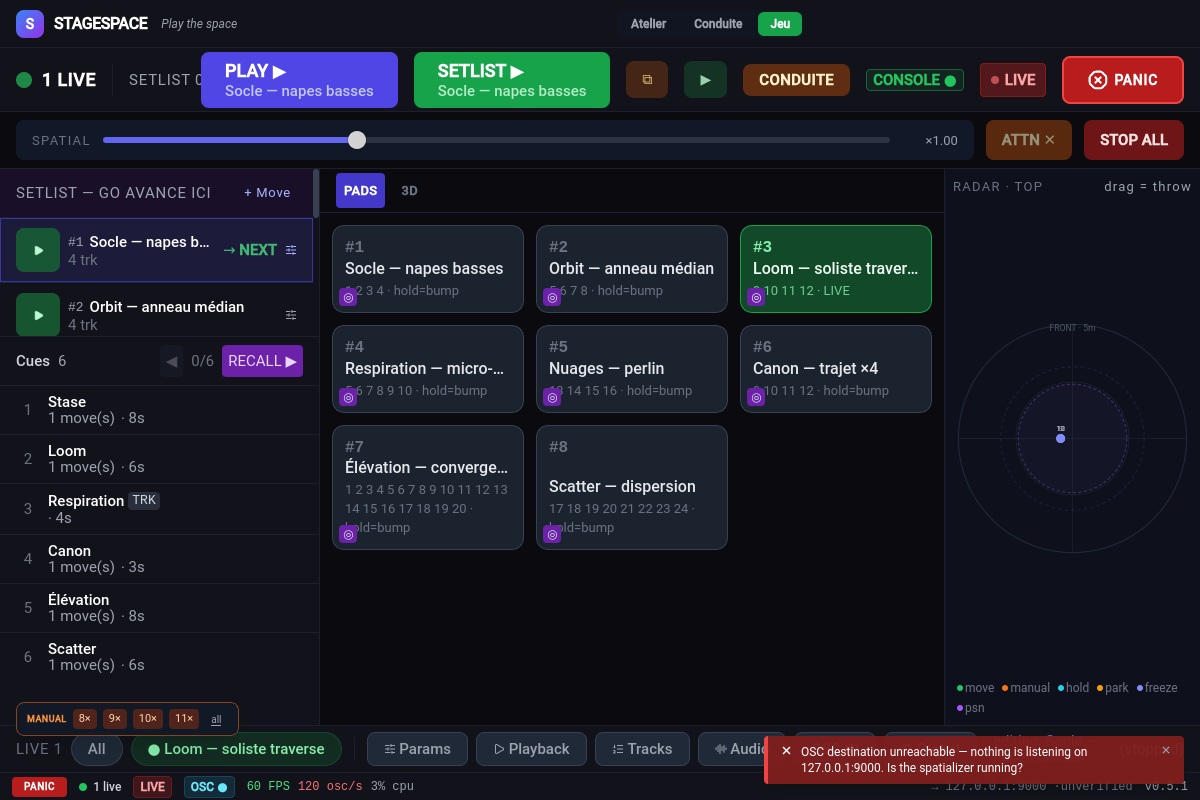
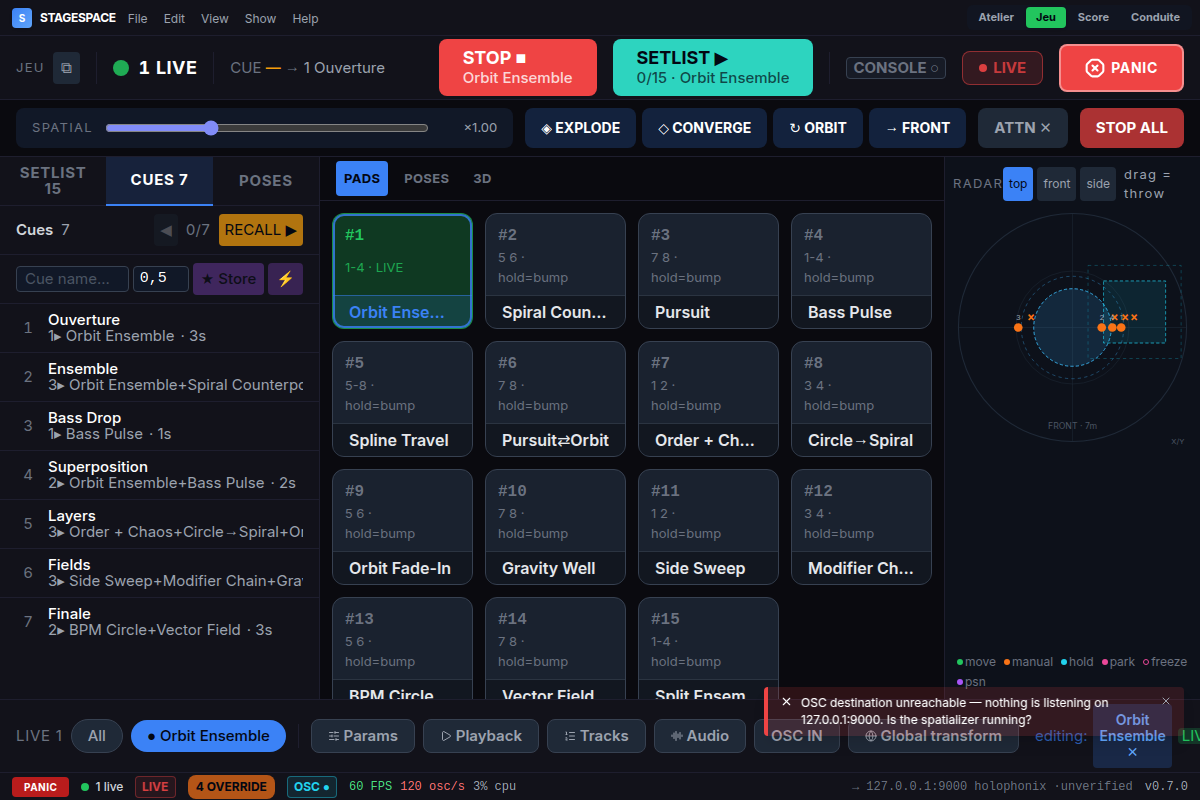
docs: refresh all screenshots on 0.7.0 + pose/score illustrations
All captures regenerated on v0.7.0 — the November shots predated the
pose-pads wall, the left POSES tab, the slimmed drawer, pad name strips
and easing selectors. New illustrations wired into the manual: pose-pads
wall, poses tab + capture modal (§2.6), score surface (appendix H).

scripts/capture-screenshots.mjs — reusable Puppeteer capture pipeline
against the dev bridge: self-sufficient prologue (reloads the example
show, recreates poses), real CDP mouse input for pad gestures, incognito
context for the welcome modal. Next refresh is one command.

Note: 10-conduite-detached unchanged — the detached view syncs over
Tauri events which the dev bridge does not relay between browser pages
(bridge limitation, not a product bug).

Generated with [Devin](https://devin.ai)

diff --git a/docs/user-manual.md b/docs/user-manual.md
@@ -171,11 +171,15 @@ A **pose** is a named snapshot of track positions (backend-owned,
 saved in the `.hfg`). Poses are busking material: instant or animated
 recall, partial by nature — tracks outside the pose don't move.
 
+![Pose-pads wall — tap = snap, hold = goto, capture in the header](screenshots/19-pose-pads.png)
+
 - **Capture**: type a name in the left-column **POSES** tab (`● cap`) or
   hit **+ capture** in the pad wall header — the capture modal embeds a
   track picker (all checked = capture every known position, including
   tracks added later). Captured positions are the live ones: manual,
   move holds, or moving objects.
+![Poses tab — capture row, per-pose snap/goto/morph](screenshots/20-poses-left-tab.png) ![Capture modal — name + track picker](screenshots/21-pose-capture.png)
+
 - **Recall** per pose row (Poses panel): **snap** = instant (manual
   positions) · **goto** = animated ramp, duration and easing chosen in
   the panel header · **A→B morph** = pick a source pose `A`, then morph
@@ -474,7 +478,7 @@ Backend failures surface as **sticky toasts** (bottom-right) — graph
 validation, failed show load, panel crash. A rejected OSC command gets a
 `/stagespace/nack <reason>` back to the sender.
 
-![Error toasts — graph push failed, show load reverted, panel crash](screenshots/13-atelier-orbe.png)
+![Error toasts — backend refusals surface as bottom-right notifications](screenshots/13-atelier-orbe.png)
 | Move playing in silence | Tracks outside OSC list / dry-run | `LIVE` vs `DRY-RUN` + OSC destination in StatusBar |
 | Everything frozen, unresponsive | Dead backend | **BACKEND ✕** chip in StatusBar |
 | Black conduite window | Main window closed / not broadcasting | "WAITING FOR MAIN WINDOW…" |
@@ -693,6 +697,8 @@ engines. SDK: `plugin-sdk/` + `plugin-examples/`.
 | **Renderer discovery** | `Discover renderers` in Settings — scan available OSC outs |
 
 ## H. Monitoring panels
+
+![Score surface — dopesheet editor, lanes, transport](screenshots/22-score.png)
 
 - **Score** — the multitrack sequencer surface (a first-class surface,
   not a panel): clip timeline (move
